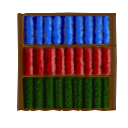
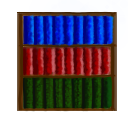
画像変更

diff --git a/Src/Object/Item/Book.cpp b/Src/Object/Item/Book.cpp
@@ -24,14 +24,12 @@ void Book::Init()
     spawnTimer_ = 900 + rand() % 301;
 
     // 画像ロード
-    img_ = LoadGraph((Application::PATH_ITEM + "Book.png").c_str());
+    img_ = LoadGraph((Application::PATH_ITEM + "Book1.png").c_str());
     imgA_ = LoadGraph((Application::PATH_ITEM + "Book.png").c_str());
-    imgB1_ = LoadGraph((Application::PATH_ITEM + "Book.png").c_str());
-    imgB2_ = LoadGraph((Application::PATH_ITEM + "Book.png").c_str());
-    imgB3_ = LoadGraph((Application::PATH_ITEM + "Book.png").c_str());
-    imgB4_ = LoadGraph((Application::PATH_ITEM + "Book.png").c_str());
-    imgB5_ = LoadGraph((Application::PATH_ITEM + "Book.png").c_str());
-    imgB6_ = LoadGraph((Application::PATH_ITEM + "Book.png").c_str());
+    imgB1_ = LoadGraph((Application::PATH_ITEM + "Book1.png").c_str());
+    imgB2_ = LoadGraph((Application::PATH_ITEM + "Book2.png").c_str());
+    imgB3_ = LoadGraph((Application::PATH_ITEM + "Book3.png").c_str());
+    imgB4_ = LoadGraph((Application::PATH_ITEM + "Book4.png").c_str());
 
     // 位置設定
     pos_ = { 300, 450 };
@@ -105,12 +103,6 @@ void Book::Draw(void)
     else if (currentImageId_ == 5) {
         drawImg = imgB4_;
     }
-    else if (currentImageId_ == 6) {
-        drawImg = imgB5_;
-    }
-    else if (currentImageId_ == 7) {
-        drawImg = imgB6_;
-    }
 
     DrawRotaGraph(pos_.x, pos_.y, 1.0, 0.0, drawImg, true);
 
@@ -135,8 +127,6 @@ void Book::Release()
     DeleteGraph(imgB2_);
     DeleteGraph(imgB3_);
     DeleteGraph(imgB4_);
-    DeleteGraph(imgB5_);
-    DeleteGraph(imgB6_);
 
     ItemBase::Release();
 }

diff --git a/Src/Object/Item/PC.cpp b/Src/Object/Item/PC.cpp
@@ -35,7 +35,7 @@ void PC::Init()
     progressTimer_ = 0;
 
     // 画像ロード (img_とimg2_はItemBaseのメンバー)
-    img_ = LoadGraph((Application::PATH_ITEM + "nc215732.png").c_str()); // PC本体
+    img_ = LoadGraph((Application::PATH_ITEM + "desk.png").c_str()); // PC本体
     img2_ = LoadGraph((Application::PATH_ITEM + "nc316039.png").c_str()); // PC画面
     img3_ = LoadGraph((Application::PATH_ITEM + "NyanCat.png").c_str()); // 実績画像
     imgA_ = LoadGraph((Application::PATH_ITEM + ".png").c_str());
@@ -46,7 +46,7 @@ void PC::Init()
     infoImg_ = LoadGraph((Application::PATH_STAGE + "黒背景.png").c_str()); // 実績背景
     infoText_ = "実績情報なし";
 
-    pos_ = { 85, 400 };
+    pos_ = { 85,500 };
     closePos_ = { 900, 700 };
     cancelPos_ = { 0, 0 };
     cancelW_ = cancelH_ = 0;
@@ -154,7 +154,7 @@ void PC::Update()
 void PC::Draw(void)
 {
     // 通常のPCアイコン描画
-    DrawRotaGraph(pos_.x, pos_.y, 0.05, 0.0, img_, true);
+    DrawRotaGraph(pos_.x, pos_.y, 2.0, 0.0, img_, true);
     DrawRotaGraph(pos_.x - 100, pos_.y + 150, 0.1, 0.0, img2_, true);
 
     // flagLevelに応じて描画
@@ -249,6 +249,6 @@ void PC::ChangeImage()
 VECTOR PC::GetTargetPos() const
 {
     VECTOR target = pos_;
-    target.y += 200; // ネコの立ち位置例
+    //target.y += 200; // ネコの立ち位置例
     return target;
 }

diff --git a/Src/Object/Item/Wall.cpp b/Src/Object/Item/Wall.cpp
@@ -25,8 +25,8 @@ void Wall::Init(void)
 {
     srand((unsigned int)time(nullptr));
 
-    img_ = LoadGraph((Application::PATH_ITEM + "nc73263_穴.png").c_str());
-    img2_ = LoadGraph((Application::PATH_ITEM + "目.png").c_str());
+    img_ = LoadGraph((Application::PATH_ITEM + "wall.png").c_str());
+    img2_ = LoadGraph((Application::PATH_ITEM + "eye1.png").c_str());
     
     img4_ = LoadGraph((Application::PATH_ITEM + "nc407592.png").c_str());
 
@@ -144,7 +144,7 @@ void Wall::Draw(void)
     // --- img_ の描画 ---
     if (flagImg_)
     {
-        DrawRotaGraph(pos_.x+10, pos_.y+10, 0.3, 0.0, img_, true);
+        DrawRotaGraph(pos_.x-20, pos_.y-10, 0.3, 0.0, img_, true);
         
     }
 
@@ -154,7 +154,7 @@ void Wall::Draw(void)
         SetDrawBlendMode(DX_BLENDMODE_ALPHA, 128);
         for (const auto& p : spawnPositions_)
         {
-            DrawRotaGraph((int)p.x, (int)p.y, 0.03, 0.0, img2_, true);
+            DrawRotaGraph((int)p.x, (int)p.y, 0.05, 0.0, img2_, true);
         }
         SetDrawBlendMode(DX_BLENDMODE_NOBLEND, 0);
     }

diff --git a/Src/Object/Neko/Neko.cpp b/Src/Object/Neko/Neko.cpp
@@ -15,7 +15,7 @@ Neko::~Neko(void)
 
 void Neko::Init(void)
 {
-    img_ = LoadGraph((Application::PATH_MODEL + "Nekoproto.jpg").c_str());
+    img_ = LoadGraph((Application::PATH_MODEL + "nako_zentai.png").c_str());
 
     pos_.x = Application::SCREEN_SIZE_X / 2;
     pos_.y = Application::SCREEN_SIZE_Y / 2 + 100;
@@ -815,7 +815,7 @@ void Neko::DrawCommon()
         isReverse = false;
     }
 
-    DrawRotaGraph(pos_.x, pos_.y, 0.1, 0.0, img_, true, isReverse);
+    DrawRotaGraph(pos_.x, pos_.y, 0.5, 0.0, img_, true, isReverse);
 
     // マウスオーバー時に枠を表示
     if (isMouseOver_) {

diff --git a/Src/Object/Item/Food.cpp b/Src/Object/Item/Food.cpp
@@ -18,7 +18,7 @@ Food::~Food(void)
 void Food::Init(void)
 {
     // 餌画像を読み込み
-    img_ = LoadGraph((Application::PATH_ITEM + "5721.png").c_str());
+    img_ = LoadGraph((Application::PATH_ITEM + "gohan.png").c_str());
     
     pos_.x = 300;
     pos_.y = 600;
@@ -73,7 +73,7 @@ void Food::Update()
 void Food::Draw(void)
 {
 
-    DrawRotaGraph(pos_.x, pos_.y, 0.03, 0.0, img_, true);
+    DrawRotaGraph(pos_.x, pos_.y, 1.0, 0.0, img_, true);
 
     float halfW = FOOD_WID / 2.0f;
     float halfH = FOOD_HIG / 2.0f;
